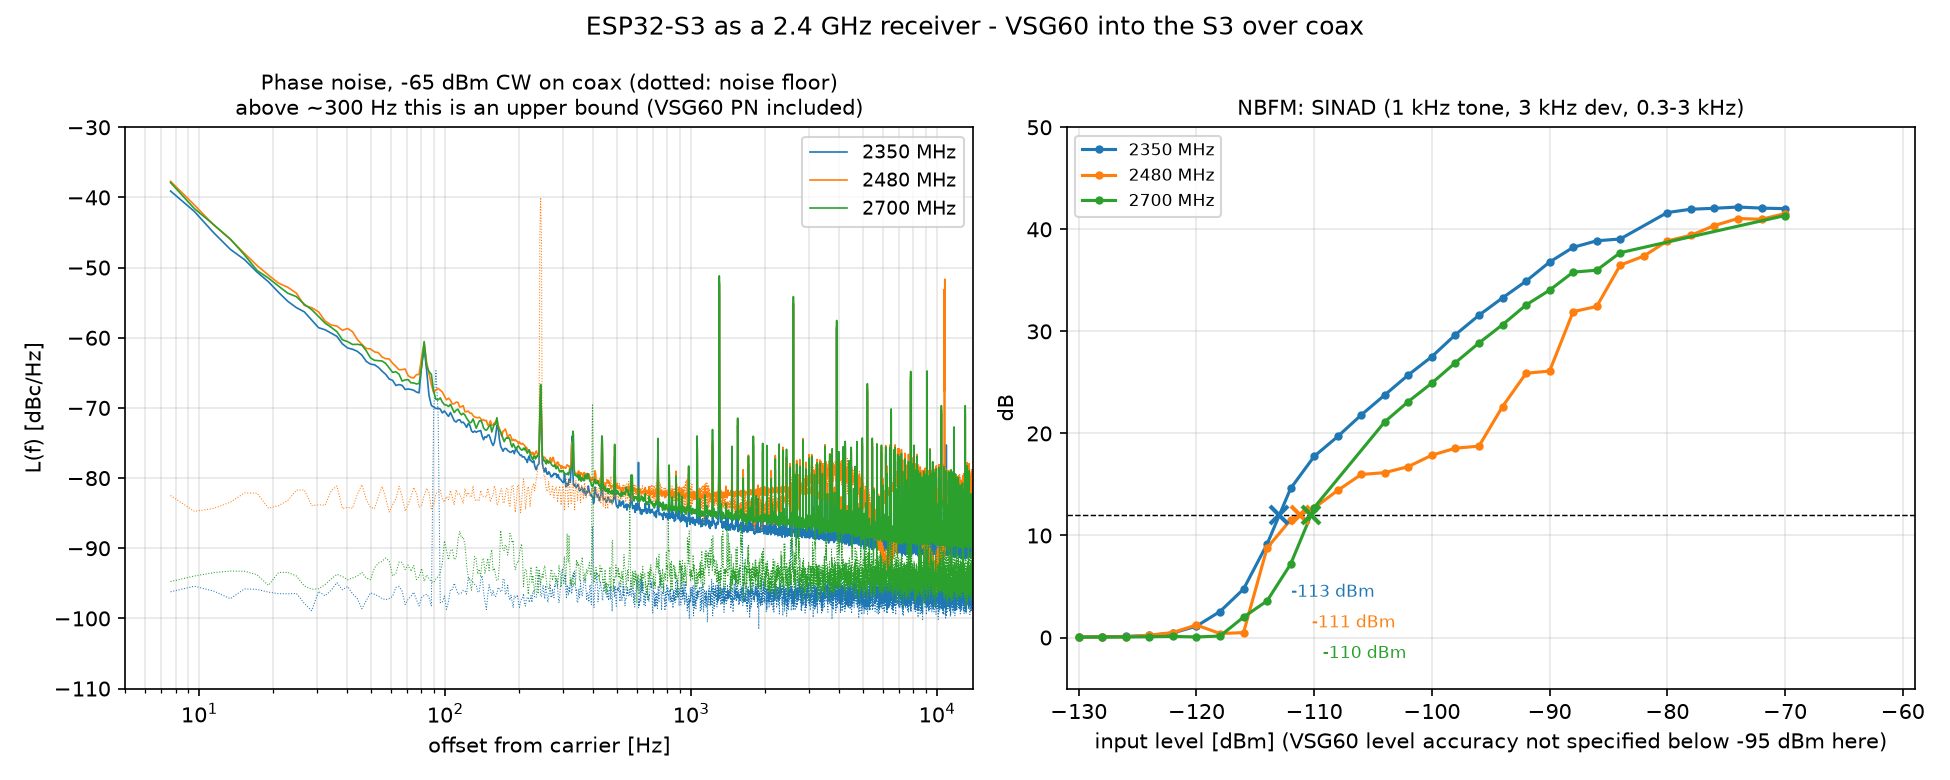
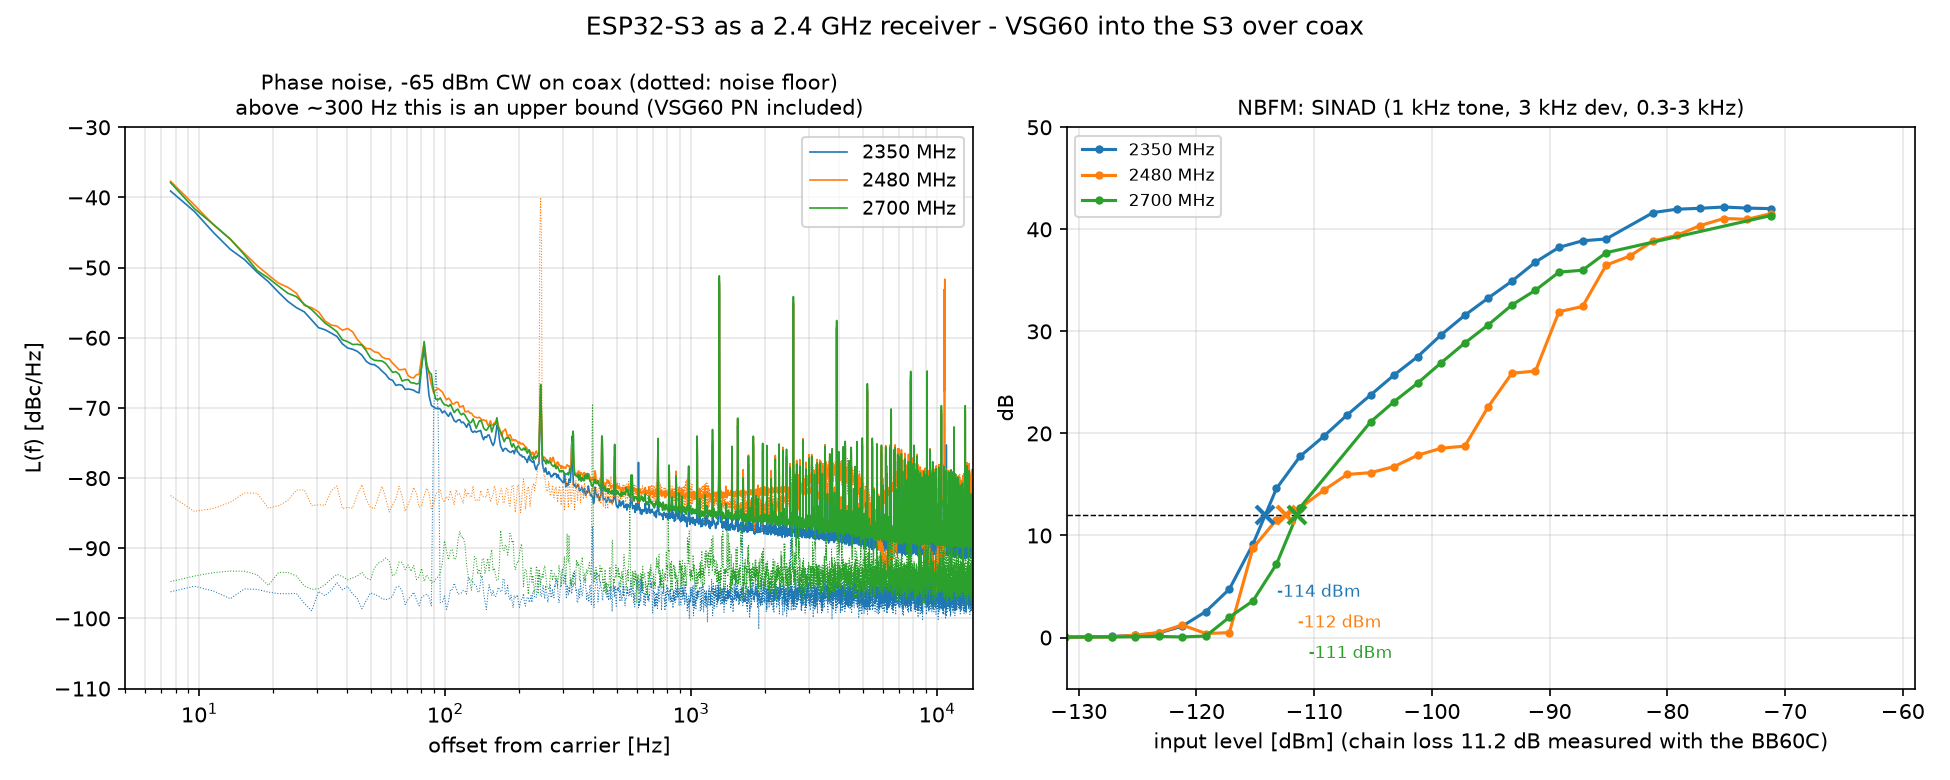
Measurements: VSG60 level verified with a BB60C (linear to -120 dBm), chain loss 11.2 dB; sensitivity -114 / -112 / -111.5 dBm

Changed region(s): [[0.5538, 0.2462, 0.9231, 0.8615], [0.5538, 0.9231, 0.9538, 0.9846]]

diff --git a/README.md b/README.md
@@ -30,7 +30,7 @@ Connect the board's **native USB** port (Espressif USB Serial/JTAG, 303A:1001; o
 
 *Demo video (YouTube): the ESP32-S3 Wi-Fi radio listening to the FM broadcast band through a moRFeus upconverter.*
 
-The S3's receiver only tunes 2.2–2.8 GHz, so here it is the IF stage behind a [moRFeus](https://www.crowdsupply.com/othernet/morfeus) upconverter (Othernet, Crowd Supply), a frequency converter and signal generator whose RF and hardware design was done by Zoltan Doczi as a consultant. With the moRFeus LO at 2259.1 MHz, 90.9 MHz (Jazzy) lands at 2350 MHz. The on-chip 40 MHz spectrum mode then shows the whole FM band, from about 71 to 111 MHz, at once in SDR++, and IQ mode demodulates it (WFM, stereo). On coax with a VSG60, the same receiver measured 12 dB SINAD at about −113 dBm for narrowband FM at 2.35 GHz, with a strong-signal SINAD of around 42 dB (see [Measurements](#measurements)).
+The S3's receiver only tunes 2.2–2.8 GHz, so here it is the IF stage behind a [moRFeus](https://www.crowdsupply.com/othernet/morfeus) upconverter (Othernet, Crowd Supply), a frequency converter and signal generator whose RF and hardware design was done by Zoltan Doczi as a consultant. With the moRFeus LO at 2259.1 MHz, 90.9 MHz (Jazzy) lands at 2350 MHz. The on-chip 40 MHz spectrum mode then shows the whole FM band, from about 71 to 111 MHz, at once in SDR++, and IQ mode demodulates it (WFM, stereo). On coax with a VSG60, the same receiver measured 12 dB SINAD at about −114 dBm for narrowband FM at 2.35 GHz, with a strong-signal SINAD of around 42 dB (see [Measurements](#measurements)).
 
 <img src="docs/img/fm_broadcast_band.png" alt="FM broadcast band seen through an upconverter by the ESP32-S3 in SDR++ (Spectrum 40 MHz mode)" width="860">
 
@@ -67,13 +67,13 @@ To read the band directly in SDR++, set *Offset mode* to *Custom* and the offset
 
 ### Conducted: phase noise, NBFM SINAD, sensitivity (5 Oct 2026)
 
-Setup: Signal Hound VSG60 → 10 dB pad → coax pigtail soldered to the S3 module (PCB antenna removed), 62.5 kS/s 16-bit IQ, gain 70; levels are at the S3 input.
+Setup: Signal Hound VSG60 → cable + 10 dB pad (11.2 dB measured) → coax pigtail soldered to the S3 module (PCB antenna removed), 62.5 kS/s 16-bit IQ, gain 70; levels are at the S3 input.
 
 | | 2350 MHz | 2480 MHz | 2700 MHz |
 | --- | --- | --- | --- |
 | Phase noise @ 100 Hz / 1 kHz / 10 kHz (dBc/Hz) | −70 / −86 / −90 | −68 / −82 / −83 ¹ | −70 / −85 / −89 |
 | NBFM SINAD, strong signal (1 kHz tone, 3 kHz dev, 0.3–3 kHz) | 42 dB | 41 dB | 41 dB |
-| NBFM 12 dB SINAD sensitivity | **−113 dBm** | **−111 dBm** | **−110 dBm** |
+| NBFM 12 dB SINAD sensitivity | **−114 dBm** | **−112 dBm** | **−111.5 dBm** |
 
 - **Stability:** bare 40 MHz crystal, no TCXO. ADEV 6e-10 @ 1 s and 4e-9 @ 100 s. 97 Hz p-p over 20 min at 2350 MHz in still air; a draught can move it by several hundred Hz.
 - **Tuning error:** crystal offset (about −1.7 ppm on this board, VSG60 reference included) plus a deterministic ±150 Hz sawtooth with a 30 MHz period from the fractional-N PLL.
@@ -81,8 +81,8 @@ Setup: Signal Hound VSG60 → 10 dB pad → coax pigtail soldered to the S3 modu
 
 Caveats:
 - Above about 300 Hz offset the phase noise is an upper bound. An S3 and a BB60C measured with the same VSG60 give nearly identical curves there, so the generator's own phase noise is likely included; at 100 Hz the S3 is about 5 dB worse than the BB60C.
-- Below −95 dBm at the S3 input the VSG60's level accuracy is not specified; treat the sensitivity figures as ±2–3 dB until checked against a calibrated receiver.
-- ¹ 2480 MHz is 62 × 40 MHz, an internal birdie of the board, and it sits in the Wi-Fi band. Nearby Wi-Fi leaked into the unshielded board: switching the access points off cut the disturbed 0.25 s blocks from 6.4 to 3.7 per 4 s capture and moved the 2480 MHz sensitivity from −108 to −111 dBm.
+- VSG60 output checked with a BB60C: linear within ±0.1 dB from −50 to −120 dBm; the cable + 10 dB pad chain loses 11.2 dB at 2350 MHz, which is used for the input levels below (the pigtail's own loss is not included, so the sensitivity figures are slightly conservative).
+- ¹ 2480 MHz is 62 × 40 MHz, an internal birdie of the board, and it sits in the Wi-Fi band. Nearby Wi-Fi leaked into the unshielded board: switching the access points off cut the disturbed 0.25 s blocks from 6.4 to 3.7 per 4 s capture and moved the 2480 MHz sensitivity from −109 to −112 dBm.
 
 <table>
 <tr>

diff --git a/docs/MEASUREMENTS.md b/docs/MEASUREMENTS.md
@@ -253,7 +253,7 @@ Total CRC errors 0, gaps 0, lost samples 0.
 
 ## Conducted campaign: phase noise, NBFM, sensitivity (`campaign_coax10`, 5 Oct 2026)
 
-Setup: Signal Hound VSG60 → 10 dB pad → coax pigtail soldered to the S3 module, PCB antenna removed, board not shielded. IQ 62.5 kS/s (16-bit link) unless noted, PPM 0. All levels are at the S3 input (VSG level − 10 dB). Script: `tools/hwcampaign.py --atten 10`; maths in `tools/hwpn.py` (`--selftest` checks L(f), residual FM and SINAD on synthetic signals with known values).
+Setup: Signal Hound VSG60 → 10 dB pad → coax pigtail soldered to the S3 module, PCB antenna removed, board not shielded. IQ 62.5 kS/s (16-bit link) unless noted, PPM 0. All levels are at the S3 input: VSG level − 11.2 dB (cable + 10 dB pad, measured with a BB60C; the VSG60 was linear within ±0.1 dB from −50 to −120 dBm). Script: `tools/hwcampaign.py --atten 10`; maths in `tools/hwpn.py` (`--selftest` checks L(f), residual FM and SINAD on synthetic signals with known values).
 
 ### A. Linearity per gain (2350 MHz)
 
@@ -301,12 +301,18 @@ Mean offset −3911 Hz (−1.66 ppm), 97 Hz p-p over 20 min, 0 gaps. ADEV about 
 | −70 dBm | 42 dB | 41.5 dB | 41.4 dB |
 | −90 dBm | 36.8 dB | 26.1 dB | 34.0 dB |
 | −100 dBm | 27.5 dB | 17.9 dB | 24.9 dB |
-| **12 dB SINAD** | **−113 dBm** | **−111 dBm** | **−110 dBm** |
+| **12 dB SINAD** | **−114 dBm** | **−112 dBm** | **−111.5 dBm** |
 
 Notes:
 - The board is unshielded and the antenna feed is open, so nearby 2.4 GHz traffic leaks in and shows as 0.25 s blocks where the carrier amplitude dips and the discriminator clicks. Those blocks are excluded and counted.
-  - With the Wi-Fi access points on: 6.4 disturbed blocks per 4 s capture, 2 of 45 captures clean, 2480 MHz sensitivity −108 dBm.
-  - With them off: 3.7 per capture, 23 of 39 clean, 2480 MHz sensitivity −111 dBm.
+  - With the Wi-Fi access points on: 6.4 disturbed blocks per 4 s capture, 2 of 45 captures clean, 2480 MHz sensitivity −109 dBm.
+  - With them off: 3.7 per capture, 23 of 39 clean, 2480 MHz sensitivity −112 dBm.
   - Some disturbance remained (2700 MHz, −72…−82 and −106…−108 dBm have no valid point). A shielded box is needed for a final number.
-- Below −95 dBm at the S3 input (VSG below −85 dBm) the VSG60's level accuracy is not specified, so the sensitivity figures are ±2–3 dB until checked against a calibrated receiver.
+- VSG60 output checked with a BB60C: linear within ±0.1 dB from −50 to −120 dBm; the cable + 10 dB pad chain loses 11.2 dB at 2350 MHz, which is used for the input levels below (the pigtail's own loss is not included, so the sensitivity figures are slightly conservative). The rows of the table above use the nominal −10 dB; the true input is 1.2 dB lower.
 - The strong-signal ceiling of about 42 dB is set by close-in phase noise / residual FM; part of it may be the VSG60's.
+
+### VSG60 level check (BB60C, 2350 MHz)
+
+VSG60 stepped from −50 to −120 dBm in 5 dB steps into a BB60C, tone power from 2 s IQ captures. Measured minus set is constant within ±0.1 dB over the whole range, also below the VSG60's specified −55 / −85 dBm limits. Cable alone: −1.3 dB; cable + 10 dB pad (the chain used for the S3): −11.2 dB.
+
+<img src="img/hw/coax/vsg_level_check.png" width="760">
